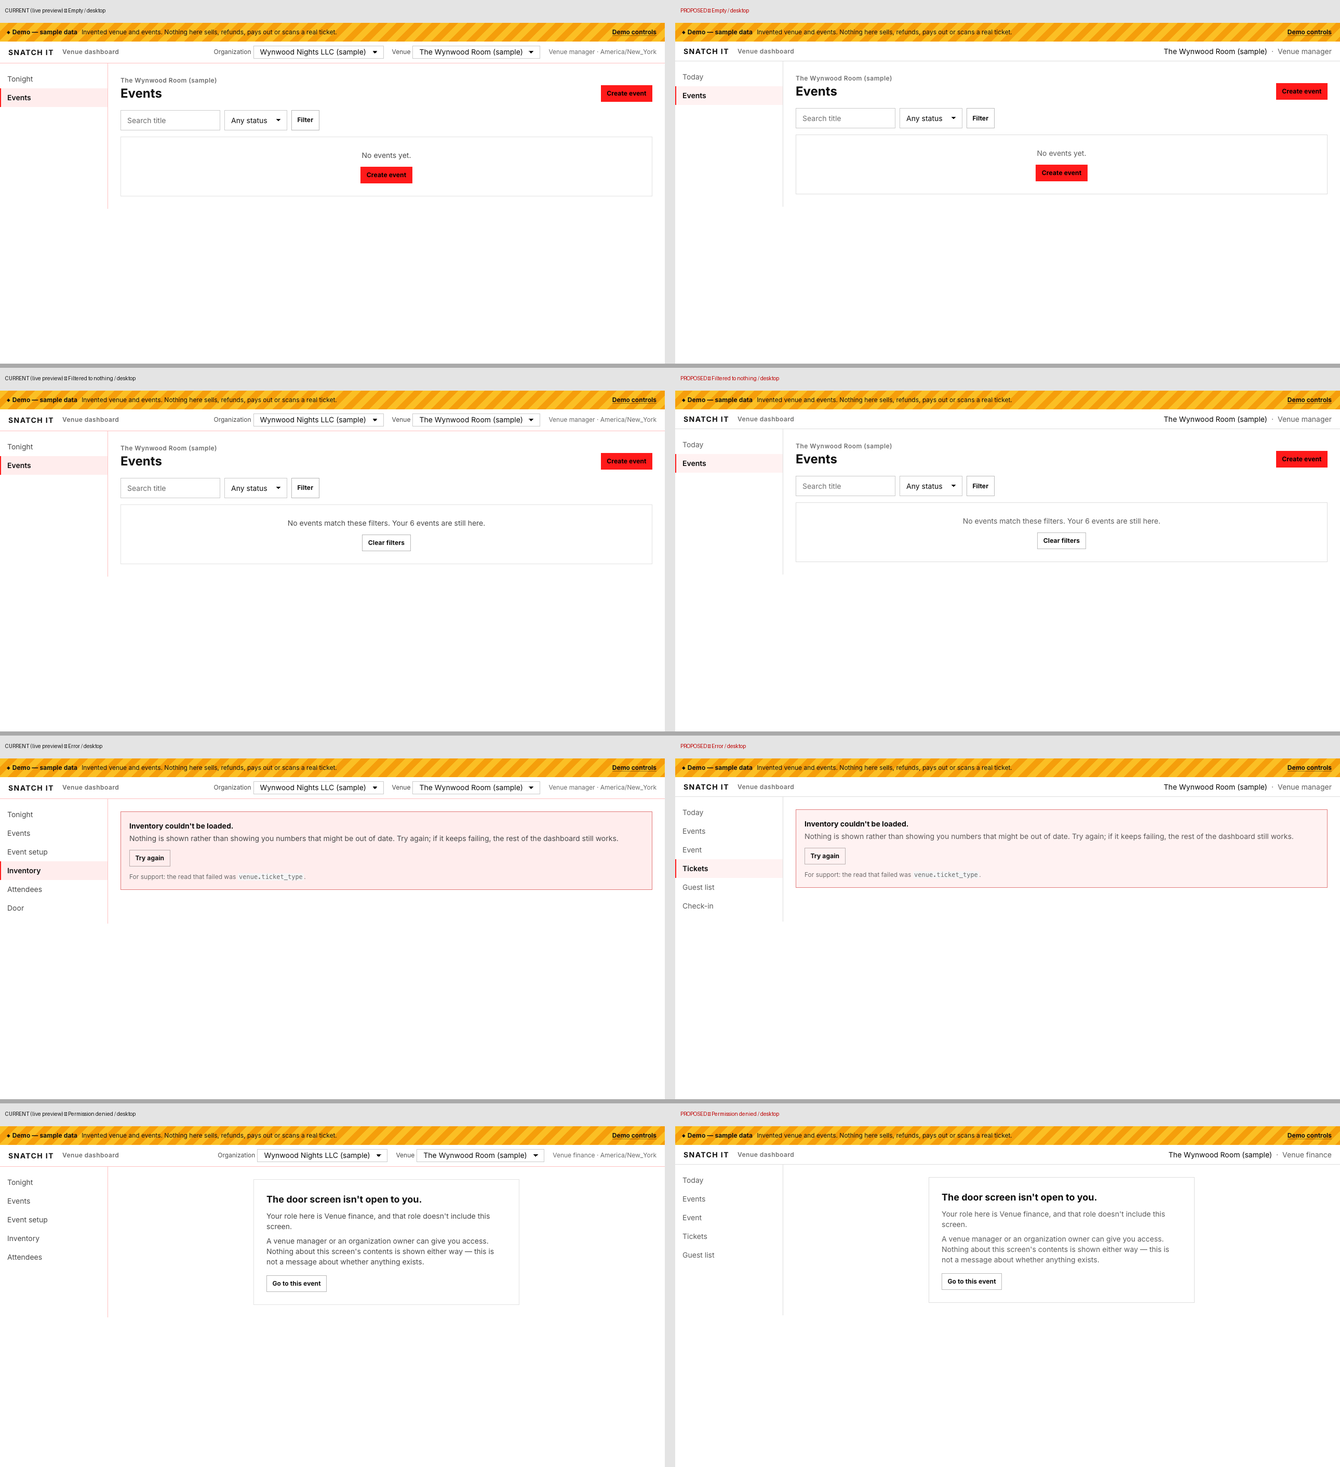
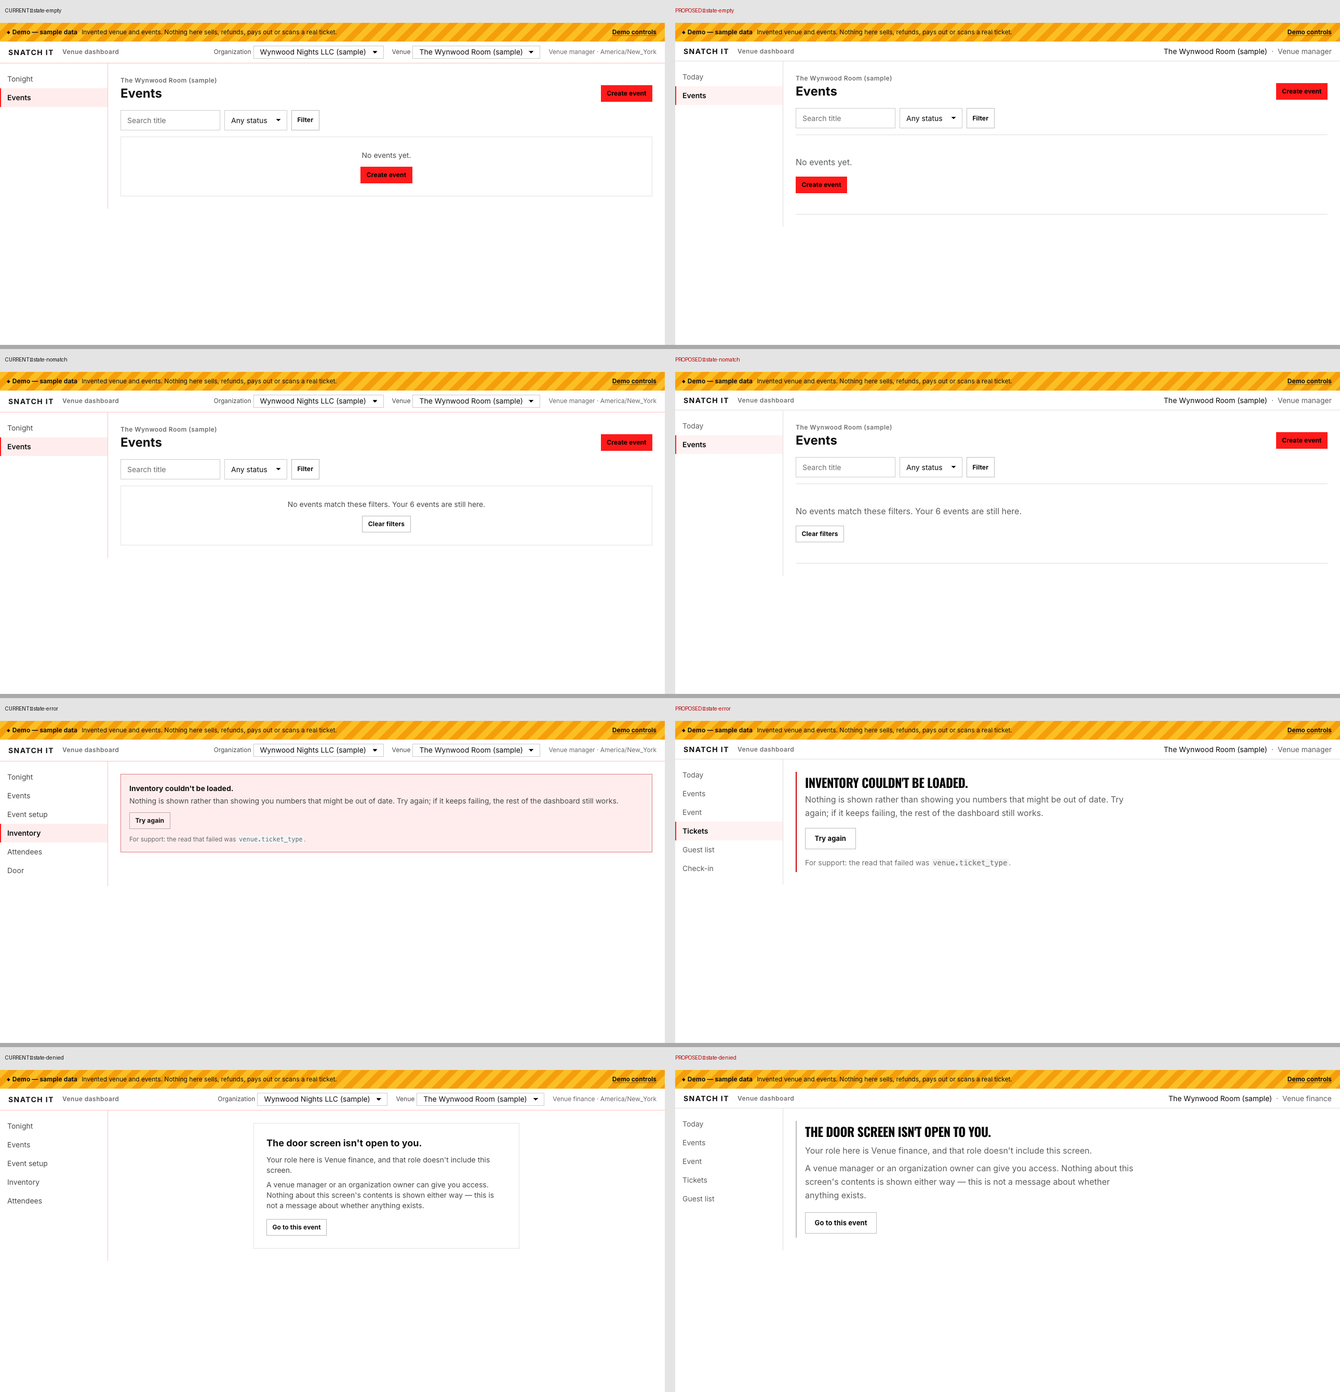
feat(venue): tickets, events list and the create wizard on the same structure, and the state pass
Completes the redesign of the existing venue screens. Typecheck and lint clean,
vitest 138/138, next build green. Not deployed — the live preview stays on
512e01e3.

Events list is one hairline row list instead of a desktop table plus a separate
phone card deck built from the same data. Two columns went with it, because
neither could ever say anything here: "Venue", which was the same venue on
every row, and "Promoters", which this data source cannot read and so rendered
a dash on every row. Resale mode moved into the row's meta line for the roles
allowed to see it. A row is now the event name, its status, the date, and the
one number that matters — "411 of 520 sold" for counter roles, "12 still
available" for the rest.

The rule the promoter column was guarding still matters, so its test was
re-pointed rather than deleted: a figure this data source cannot produce must
render a dash with a reason, never a zero. It now asserts that on sold/capacity
with no releases, and asserts the real figure appears when there are releases,
so it fails if the dash ever becomes "0 of 0 sold".

Tickets is headed "Tickets" rather than "Ticket types & inventory", opens by
saying what the page is for, and keeps the capacity-change explanation marked
as not available in this demo rather than looking like a control.

Create wizard gets the same page heading treatment, and its step chips read as
progress rather than three buttons.
[…]

diff --git a/venue/src/components/events/EventsTable.tsx b/venue/src/components/events/EventsTable.tsx
@@ -8,6 +8,7 @@ import { canEditEvents, canReadResalePolicy, showCounters } from "@/lib/roles";
 import type { Event, InventoryBatch, InventoryHold, TicketType } from "@/lib/types";
 import { Chip, StatusPill } from "@/components/ui/Bits";
 import { EmptyState, PartialCell } from "@/components/ui/State";
+import { Row, Rows } from "@/components/ui/Page";
 
 /**
  * Spec §7.1 — columns: title · venue · next session date · status · sold / capacity · resale mode · promoter count.
@@ -20,7 +21,6 @@ export function EventsTable({
   holds,
   ctx,
   basePath,
-  venueName,
   timeZone,
   now,
   filter,
@@ -31,7 +31,6 @@ export function EventsTable({
   holds: InventoryHold[];
   ctx: PreviewContext;
   basePath: string;
-  venueName: string;
   timeZone: string;
   now: Date;
   filter: { status?: string; q?: string };
@@ -87,74 +86,40 @@ export function EventsTable({
   }
 
   return (
-    <>
-      {/* xl / lg: table */}
-      <div className="hidden overflow-x-auto md:block">
-        <table className="data-table">
-          <thead>
-            <tr>
-              <th>Title</th>
-              <th className="hidden xl:table-cell">Venue</th>
-              <th>Next session</th>
-              <th>Status</th>
-              <th className="num">{counters ? "Sold of capacity" : "Still available"}</th>
-              {canReadResalePolicy(ctx.role) ? <th className="hidden lg:table-cell">Resale</th> : null}
-              <th className="num hidden lg:table-cell">Promoters</th>
-            </tr>
-          </thead>
-          <tbody>
-            {rows.map((e) => {
-              const s = nextSession(e);
-              const sc = soldCap(e);
-              return (
-                <tr key={e.eventId}>
-                  <td>
-                    <Link className="link inline-flex min-h-6 items-center" href={withPreview(`${basePath}/events/${e.eventId}`, ctx)}>
-                      {e.title}
-                    </Link>
-                    {warnEventIds.has(e.eventId) ? (
-                      <span className="ml-2">
-                        <Chip tone="warning">Inventory warning</Chip>
-                      </span>
-                    ) : null}
-                  </td>
-                  <td className="hidden xl:table-cell text-muted">{venueName}</td>
-                  <td className="whitespace-nowrap">
-                    {s ? venueDate(s.startsAt, timeZone) : "—"}
-                    {s?.label ? <span className="text-dim"> · {s.label}</span> : null}
-                  </td>
-                  <td>
-                    <StatusPill status={e.status} />
-                  </td>
-                  <td className="num">{sc && sc.capacity > 0 ? (counters ? `${sc.sold} / ${sc.capacity}` : sc.capacity - sc.sold > 0 ? `${sc.capacity - sc.sold} available` : "None available") : <PartialCell why={sc ? "No releases yet" : "Sold/capacity unavailable"} />}</td>
-                  {canReadResalePolicy(ctx.role) ? <td className="hidden lg:table-cell">{RESALE_LABEL[e.resaleMode]}</td> : null}
-                  <td className="num hidden lg:table-cell">{e.promoterCount ?? <PartialCell why="Promoters are not readable from this data source yet" />}</td>
-                </tr>
-              );
-            })}
-          </tbody>
-        </table>
-      </div>
-      {/* sm: summary cards (events list is not a mobile-critical surface — read-only summary, spec §3.2) */}
-      <ul className="space-y-2 md:hidden">
-        {rows.map((e) => {
-          const s = nextSession(e);
-          const sc = soldCap(e);
-          return (
-            <li key={e.eventId} className="border border-line-neutral p-3">
-              <div className="flex flex-wrap items-start justify-between gap-2">
-                <Link className="link inline-flex min-h-6 items-center font-bold" href={withPreview(`${basePath}/events/${e.eventId}`, ctx)}>
-                  {e.title}
-                </Link>
+    /*
+      One list, not a desktop table plus a separate phone card deck. The table
+      carried two columns that could never say anything useful here: "Venue",
+      which is the same venue on every row, and "Promoters", which this data
+      source cannot read and so rendered a dash on every row. Resale mode moved
+      into the row's meta line for the roles that can see it.
+    */
+    <Rows>
+      {rows.map((e) => {
+        const s = nextSession(e);
+        const sc = soldCap(e);
+        const sales = sc && sc.capacity > 0 ? (counters ? `${sc.sold} of ${sc.capacity} sold` : sc.capacity - sc.sold > 0 ? `${sc.capacity - sc.sold} still available` : "None available") : null;
+        return (
+          <Row
+            key={e.eventId}
+            title={e.title}
+            href={withPreview(`${basePath}/events/${e.eventId}`, ctx)}
+            badge={
+              <>
                 <StatusPill status={e.status} />
-              </div>
-              <p className="mt-1 text-xs text-muted">
-                {s ? venueDate(s.startsAt, timeZone) : "—"} · {sc && sc.capacity > 0 ? (counters ? `${sc.sold} / ${sc.capacity} sold` : `${Math.max(0, sc.capacity - sc.sold)} available`) : "no releases yet"}
-              </p>
-            </li>
-          );
-        })}
-      </ul>
-    </>
+                {warnEventIds.has(e.eventId) ? <Chip tone="warning">Needs attention</Chip> : null}
+              </>
+            }
+            meta={
+              <>
+                {s ? venueDate(s.startsAt, timeZone) : "No date set"}
+                {s?.label ? ` · ${s.label}` : ""}
+                {canReadResalePolicy(ctx.role) ? ` · ${RESALE_LABEL[e.resaleMode]}` : ""}
+              </>
+            }
+            right={sales ? <span className="tabular-nums text-sm text-muted">{sales}</span> : <PartialCell why="No releases yet" />}
+          />
+        );
+      })}
+    </Rows>
   );
 }

diff --git a/venue/src/components/ui/State.tsx b/venue/src/components/ui/State.tsx
@@ -15,9 +15,9 @@ export function Skeleton({ rows = 5, className = "" }: { rows?: number; classNam
 
 export function EmptyState({ title, children }: { title: string; children?: ReactNode }) {
   return (
-    <div className="border border-line-neutral p-6 text-center">
-      <p className="text-muted">{title}</p>
-      {children ? <div className="mt-3 flex justify-center gap-2">{children}</div> : null}
+    <div className="border-y border-line py-10">
+      <p className="max-w-xl text-base text-muted">{title}</p>
+      {children ? <div className="mt-4 flex flex-wrap items-center gap-4">{children}</div> : null}
     </div>
   );
 }
@@ -29,15 +29,15 @@ export function EmptyState({ title, children }: { title: string; children?: Reac
  */
 export function ErrorState({ read, retryHref, lost = "This page" }: { read: string; retryHref: string; lost?: string }) {
   return (
-    <div className="border border-danger/50 bg-primary-soft p-4" role="alert">
-      <p className="font-bold">{lost} couldn&apos;t be loaded.</p>
-      <p className="mt-1 text-sm text-muted">
+    <div className="max-w-2xl border-l-2 border-danger py-2 pl-4" role="alert">
+      <p className="display display-lg">{lost} couldn&apos;t be loaded.</p>
+      <p className="mt-2 text-base leading-relaxed text-muted">
         Nothing is shown rather than showing you numbers that might be out of date. Try again; if it keeps failing, the rest of the dashboard still works.
       </p>
-      <a className="btn btn-ghost btn-sm mt-3" href={retryHref}>
+      <a className="btn btn-ghost mt-4" href={retryHref}>
         Try again
       </a>
-      <p className="mt-3 text-xs text-dim">
+      <p className="mt-4 text-sm text-dim">
         For support: the read that failed was <code className="font-mono">{read}</code>.
       </p>
     </div>
@@ -67,14 +67,14 @@ export function DeniedState({
   alternative?: { label: string; href: string };
 }) {
   return (
-    <div className="mx-auto max-w-lg border border-line-neutral p-6" role="alert">
-      <p className="text-lg font-bold">{surface} isn&apos;t open to you.</p>
-      <p className="mt-2 text-sm text-muted">{reason ?? (roleLabel ? `Your role here is ${roleLabel}, and that role doesn't include this screen.` : "Your role at this venue doesn't include this screen.")}</p>
-      <p className="mt-2 text-sm text-muted">
+    <div className="max-w-2xl border-l-2 border-line-strong py-2 pl-4" role="alert">
+      <p className="display display-lg">{surface} isn&apos;t open to you.</p>
+      <p className="mt-3 text-base leading-relaxed text-muted">{reason ?? (roleLabel ? `Your role here is ${roleLabel}, and that role doesn't include this screen.` : "Your role at this venue doesn't include this screen.")}</p>
+      <p className="mt-2 text-base leading-relaxed text-muted">
         {grantedBy} can give you access. Nothing about this screen&apos;s contents is shown either way — this is not a message about whether anything exists.
       </p>
       {alternative ? (
-        <a className="btn btn-ghost btn-sm mt-4" href={alternative.href}>
+        <a className="btn btn-ghost mt-5" href={alternative.href}>
           {alternative.label}
         </a>
       ) : null}

diff --git a/venue/tests/data-source-ui.test.tsx b/venue/tests/data-source-ui.test.tsx
@@ -37,7 +37,7 @@ describe("counters gate follows the data source", () => {
     expect(showCounters("venue_manager", db)).toBe(false);
     expect(showCounters("venue_manager", {})).toBe(true);
     const batches = BATCHES.map((b) => ({ ...b, capacity: b.capacity - b.held - b.sold, held: 0, sold: 0, countersKnown: false }));
-    const table = html(<EventsTable events={EVENTS} batches={batches} types={TICKET_TYPES} holds={[]} ctx={db} basePath={base} venueName="Venue" timeZone={VENUE.timeZone} now={PREVIEW_NOW} filter={{}} />);
+    const table = html(<EventsTable events={EVENTS} batches={batches} types={TICKET_TYPES} holds={[]} ctx={db} basePath={base} timeZone={VENUE.timeZone} now={PREVIEW_NOW} filter={{}} />);
     expect(table).toContain("available");
     expect(table).not.toMatch(/\d+ \/ \d+/);
     const setup = html(<EventSetup event={EVENTS[0]} types={TICKET_TYPES} batches={batches} ctx={db} basePath={base} timeZone={VENUE.timeZone} openManifestSessionIds={new Set()} />);
@@ -48,8 +48,20 @@ describe("counters gate follows the data source", () => {
     expect(inv).not.toContain("Capacity change");
     expect(inv).toContain("available");
   });
-  it("events with unknown promoter counts render a dash, not zero", () => {
-    const table = html(<EventsTable events={EVENTS.map((e) => ({ ...e, promoterCount: null }))} batches={BATCHES} types={TICKET_TYPES} holds={[]} ctx={{ role: "venue_manager", state: "live" }} basePath={base} venueName="V" timeZone={VENUE.timeZone} now={PREVIEW_NOW} filter={{}} />);
-    expect(table).toContain("Promoters are not readable");
+  it("an unknown figure renders a dash with a reason, never a zero", () => {
+    // The promoter column is gone (it could never show anything but a dash
+    // here), but the rule it guarded still matters: a number this data source
+    // cannot produce must not be rendered as 0. It now applies to sold/capacity.
+    const noReleases = html(
+      <EventsTable events={EVENTS} batches={[]} types={[]} holds={[]} ctx={{ role: "venue_manager", state: "live" }} basePath={base} timeZone={VENUE.timeZone} now={PREVIEW_NOW} filter={{}} />,
+    );
+    expect(noReleases).toContain("No releases yet");
+    expect(noReleases).not.toContain("0 of 0 sold");
+
+    // Discrimination: with releases present, the real figure is shown.
+    const withReleases = html(
+      <EventsTable events={EVENTS} batches={BATCHES} types={TICKET_TYPES} holds={[]} ctx={{ role: "venue_manager", state: "live" }} basePath={base} timeZone={VENUE.timeZone} now={PREVIEW_NOW} filter={{}} />,
+    );
+    expect(withReleases).toContain("411 of 520 sold");
   });
 });

diff --git a/venue/src/components/inventory/InventoryOverview.tsx b/venue/src/components/inventory/InventoryOverview.tsx
@@ -28,16 +28,19 @@ export function InventoryOverview({ event, types, batches, holds, ctx, basePath,
 
   return (
     <div className="space-y-6">
-      <header>
-        <p className="eyebrow text-dim">Inventory · {event.title}</p>
-        <h1 className="text-2xl font-bold">Ticket types &amp; inventory</h1>
-        {session ? <p className="mt-1 text-sm text-muted">Session {session.label ?? venueTime(session.startsAt, timeZone)} · capacity is per session</p> : null}
+      <header className="pb-2">
+        <p className="eyebrow-accent">{event.title}</p>
+        <h1 className="display display-xl mt-2">Tickets</h1>
+        <p className="mt-3 max-w-xl text-base text-muted">
+          What is on sale for this night, how much is left, and what is being held back.
+          {session ? ` ${session.label ?? venueTime(session.startsAt, timeZone)}.` : ""} Each night has its own capacity.
+        </p>
       </header>
 
       {canChangeCapacity(ctx.role) && ctx.writesEnabled !== false ? <LargerScreenBanner /> : null}
 
       {view === "counters" && warnings.length > 0 ? (
-        <Panel title="Needs attention" eyebrow="One line per release, per problem">
+        <Panel title="Needs attention" eyebrow="One line per problem">
           <ul className="divide-y divide-line-neutral text-sm">
             {warnings.map((w) => (
               <li key={`${w.batchId}-${w.kind}`} className="flex flex-wrap items-center gap-2 py-2">
@@ -178,7 +181,7 @@ export function InventoryOverview({ event, types, batches, holds, ctx, basePath,
 
       <div className="grid gap-6 [grid-template-columns:repeat(auto-fit,minmax(min(26rem,100%),1fr))]">
         {view === "counters" ? (
-          <Panel title="Changing capacity" eyebrow="Checked before it is allowed">
+          <Panel title="Changing capacity" eyebrow="Not available in this demo">
             <p className="text-sm text-muted">Changes are audited and refused below what is already held or sold. The floor for each release is shown before you type.</p>
             <ul className="mt-2 text-xs text-dim">
               {batches

diff --git a/venue/src/components/events/CreateEventWizard.tsx b/venue/src/components/events/CreateEventWizard.tsx
@@ -17,8 +17,8 @@ export function CreateEventWizard({ ctx, basePath, step, venueApproved, venueNam
       <header>
         <div className="flex flex-wrap items-baseline justify-between gap-2">
           <div>
-            <p className="eyebrow text-dim">Create event</p>
-            <h1 className="text-2xl font-bold">New event</h1>
+            <p className="eyebrow-accent">Create event</p>
+            <h1 className="display display-xl mt-2">New event</h1>
           </div>
           <a className="link inline-flex min-h-6 items-center text-sm" href={withPreview(`${basePath}/events`, ctx)}>
             Cancel and go back to events
@@ -27,7 +27,7 @@ export function CreateEventWizard({ ctx, basePath, step, venueApproved, venueNam
         <p className="mt-2 text-sm text-muted">Three steps. It ends as a draft — visible to your staff only, not announced and not selling, so nothing is public until you choose to announce it.</p>
         <ol className="mt-3 flex flex-wrap gap-2 text-xs">
           {steps.map((s, i) => (
-            <li key={s} className={`border px-2 py-1 ${i + 1 === step ? "border-primary text-primary-ink" : i + 1 < step ? "border-success text-success" : "border-line-neutral text-dim"}`}>
+            <li key={s} className={`border-b-2 pb-1 ${i + 1 === step ? "border-primary font-semibold text-ink" : i + 1 < step ? "border-success text-success" : "border-line text-dim"}`}>
               {i + 1}. {s}
             </li>
           ))}

diff --git a/venue/tests/surfaces.test.tsx b/venue/tests/surfaces.test.tsx
@@ -31,12 +31,12 @@ describe("shell", () => {
 });
 
 describe("events list (§7.1)", () => {
-  const props = { batches: BATCHES, types: TICKET_TYPES, holds: HOLDS, ctx: vm, basePath: base, venueName: VENUE.name, timeZone: VENUE.timeZone, now: PREVIEW_NOW };
+  const props = { batches: BATCHES, types: TICKET_TYPES, holds: HOLDS, ctx: vm, basePath: base, timeZone: VENUE.timeZone, now: PREVIEW_NOW };
   it("renders every event with status pills and an inventory warning chip on tonight's event", () => {
     const out = html(<EventsTable {...props} events={EVENTS} filter={{}} />);
     for (const e of EVENTS) expect(out).toContain(e.title);
-    expect(out).toContain("Inventory warning");
-    expect(out).toContain("411 / 520");
+    expect(out).toContain("Needs attention");
+    expect(out).toContain("411 of 520 sold");
   });
   it("distinguishes no events from no matches", () => {
     expect(html(<EventsTable {...props} events={[]} filter={{}} />)).toContain("No events yet.");
@@ -45,7 +45,7 @@ describe("events list (§7.1)", () => {
   it("shows availability, not counters, to org_member", () => {
     const out = html(<EventsTable {...props} ctx={{ role: "org_member", state: "live" }} events={EVENTS} filter={{}} />);
     expect(out).toContain("available");
-    expect(out).not.toContain("411 / 520");
+    expect(out).not.toContain("411 of 520 sold");
   });
 });
 

diff --git a/venue/tests/demo-usability.test.tsx b/venue/tests/demo-usability.test.tsx
@@ -57,10 +57,10 @@ describe("X2 — filtered to nothing is never 'you have no events'", () => {
 
 describe("P5 — the header names the measure actually shown", () => {
   it("counter roles see capacity, remaining-only roles see availability", () => {
-    expect(html(<EventsTable {...tableProps} events={EVENTS} filter={{}} />)).toContain("Sold of capacity");
+    expect(html(<EventsTable {...tableProps} events={EVENTS} filter={{}} />)).toContain("411 of 520 sold");
     const member = html(<EventsTable {...tableProps} ctx={{ role: "org_member", state: "live" }} events={EVENTS} filter={{}} />);
-    expect(member).toContain("Still available");
-    expect(member).not.toContain("Sold of capacity");
+    expect(member).toContain("still available");
+    expect(member).not.toContain("411 of 520 sold");
   });
 });
 

diff --git a/venue/src/app/o/[org]/v/[venue]/events/[event]/door/page.tsx b/venue/src/app/o/[org]/v/[venue]/events/[event]/door/page.tsx
@@ -10,7 +10,7 @@ import { NotWiredState } from "@/components/ui/DataSourceError";
 import { EntryGate } from "@/components/ui/EntryGate";
 import { PRINCIPAL_LABEL } from "@/lib/roles";
 
-export const metadata = { title: "Door" };
+export const metadata = { title: "Check-in" };
 export const dynamic = "force-dynamic";
 
 type Loaded = { pins: DoorPin[]; devices: ScanDevice[]; episodes: ManifestEpisode[]; scans: ScanCounters; flags: FlagRow[]; lookup: { q: string; result: RosterRow | null } | null };

diff --git a/venue/src/app/o/[org]/v/[venue]/events/[event]/inventory/page.tsx b/venue/src/app/o/[org]/v/[venue]/events/[event]/inventory/page.tsx
@@ -12,7 +12,7 @@ import { DataSourceError } from "@/components/ui/DataSourceError";
 import { DeniedState, ErrorState, Skeleton } from "@/components/ui/State";
 import { PRINCIPAL_LABEL } from "@/lib/roles";
 
-export const metadata = { title: "Inventory" };
+export const metadata = { title: "Tickets" };
 export const dynamic = "force-dynamic";
 
 export default async function InventoryPage({ params, searchParams }: { params: Promise<PageParams>; searchParams: Promise<SearchParams> }) {

diff --git a/venue/src/app/o/[org]/v/[venue]/events/[event]/page.tsx b/venue/src/app/o/[org]/v/[venue]/events/[event]/page.tsx
@@ -13,7 +13,7 @@ import { DataSourceError } from "@/components/ui/DataSourceError";
 import { DeniedState, ErrorState, Skeleton } from "@/components/ui/State";
 import { PRINCIPAL_LABEL } from "@/lib/roles";
 
-export const metadata = { title: "Event setup" };
+export const metadata = { title: "Event" };
 export const dynamic = "force-dynamic";
 
 export default async function EventPage({ params, searchParams }: { params: Promise<PageParams>; searchParams: Promise<SearchParams> }) {

diff --git a/venue/src/app/o/[org]/v/[venue]/events/[event]/attendees/page.tsx b/venue/src/app/o/[org]/v/[venue]/events/[event]/attendees/page.tsx
@@ -10,7 +10,7 @@ import { NotWiredState } from "@/components/ui/DataSourceError";
 import { EntryGate } from "@/components/ui/EntryGate";
 import { PRINCIPAL_LABEL } from "@/lib/roles";
 
-export const metadata = { title: "Attendees" };
+export const metadata = { title: "Guest list" };
 export const dynamic = "force-dynamic";
 
 export default async function AttendeesPage({ params, searchParams }: { params: Promise<PageParams>; searchParams: Promise<SearchParams> }) {

diff --git a/venue/src/app/o/[org]/v/[venue]/events/page.tsx b/venue/src/app/o/[org]/v/[venue]/events/page.tsx
@@ -123,7 +123,6 @@ export default async function EventsPage({ params, searchParams }: { params: Pro
           holds={loaded.holds}
           ctx={ctx}
           basePath={basePath}
-          venueName={venueName}
           timeZone={p.timeZone}
           now={p.now}
           filter={{ status: ctx.state === "nodata" ? "zzz" : p.first("status"), q: p.first("q") }}
